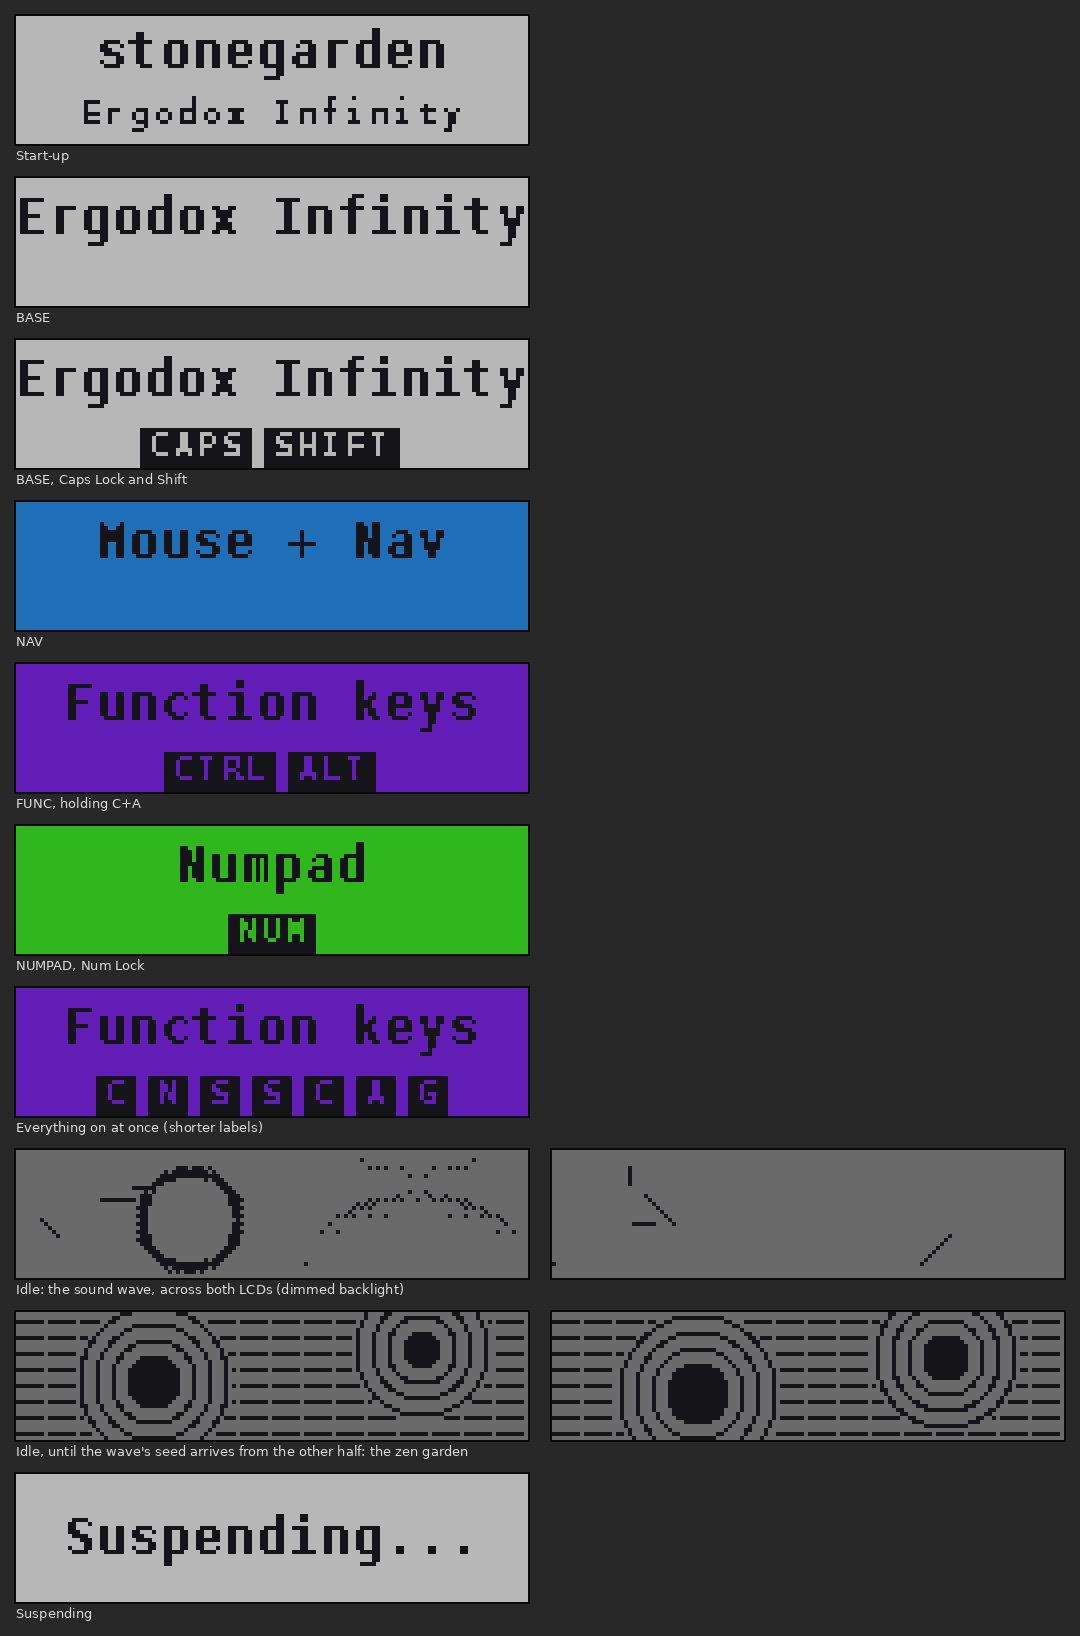
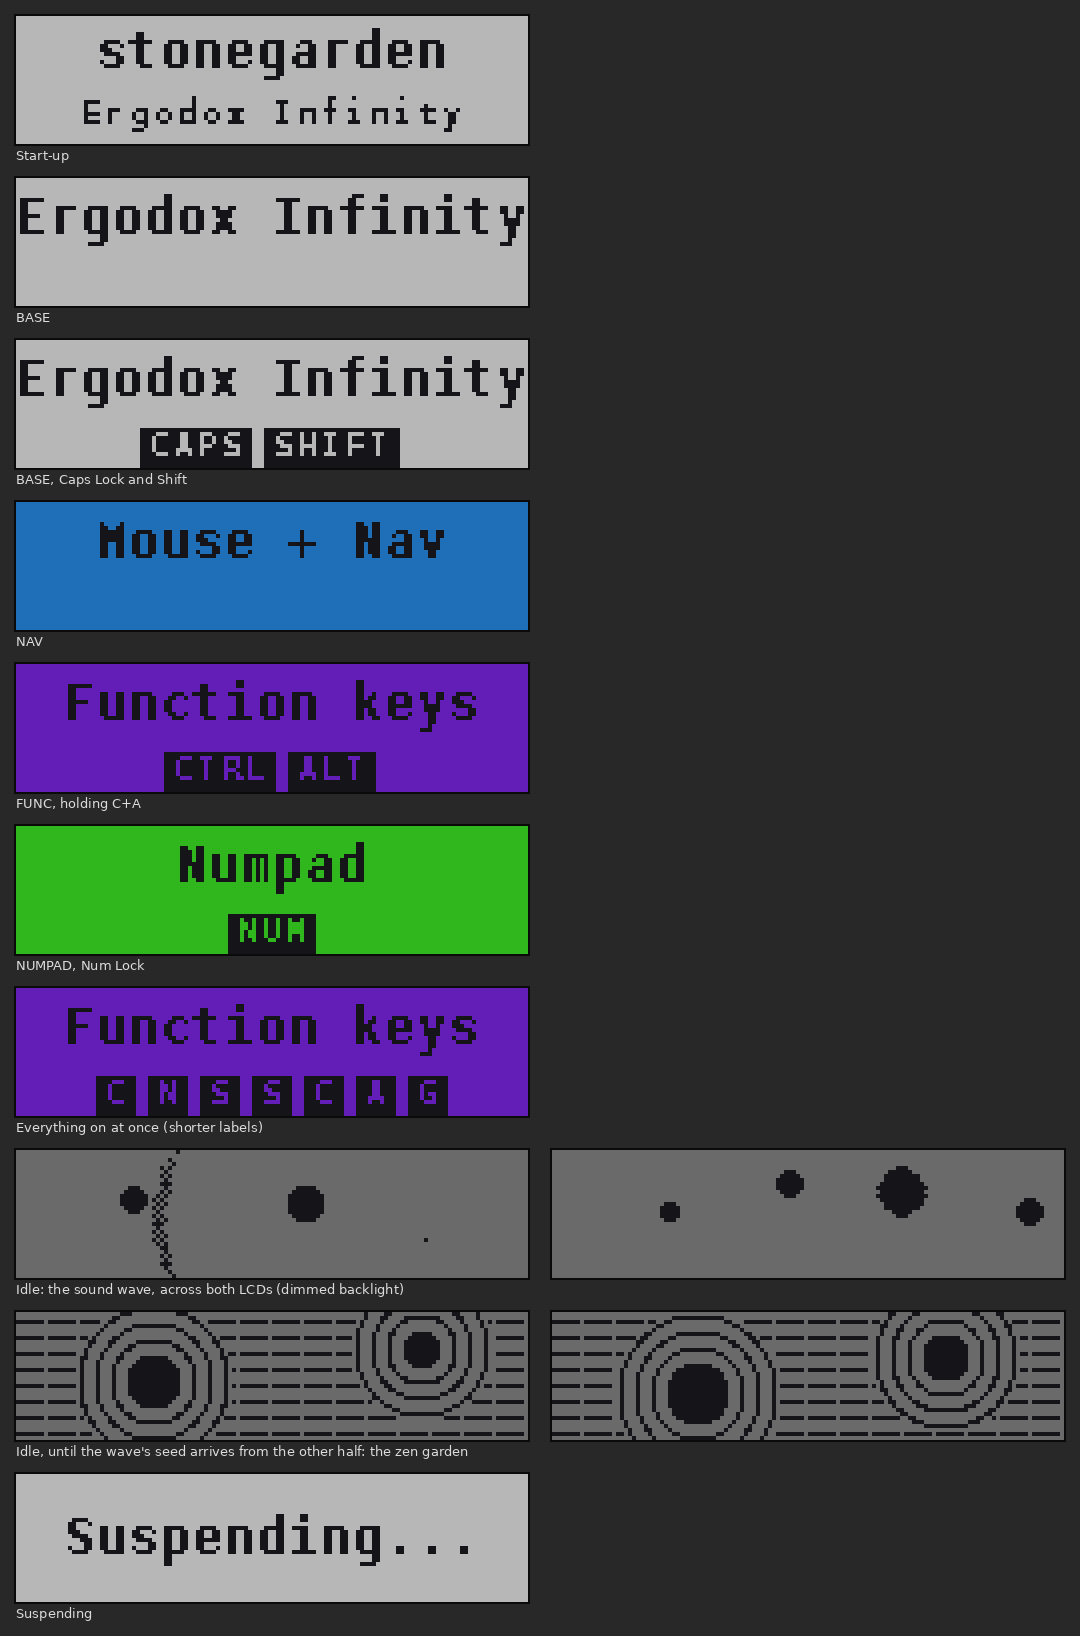
ErgoDox Infinity wave: absorbing edges and rigid disks
Replace the reflecting screen edges with Mur's first-order absorbing
boundary condition, u_next(edge) = u(inner) - (u_next(inner) - u(edge))/3
at Courant number 1/2. Measured on this grid with the same integer
scheme, a central pulse keeps 57% of its energy with reflecting edges,
8% after 8 seconds and 0.5% after 20 with Mur, and a 6-cell graded
damping layer in front of Mur (a cheap PML) did worse than Mur alone.
The global damping drops to a trace (1/1024 per step) for integer
rounding.

The reflectors are now 1 to 5 disks of radius 2 to 4 at random places,
apart from each other and the edges, and rigid (Neumann: a disk cell
counts as the neighbour's own height), so they reflect without the
sign flip of the old zero-held walls. The previews use a seed with
five disks.

diff --git a/keyboards/ergodox/lcd_wave.c b/keyboards/ergodox/lcd_wave.c
@@ -8,9 +8,17 @@
  *
  *     u_next = u + (u_north + u_south + u_east + u_west) / 4 - u_prev
  *
- * in 16-bit integers, with a little damping each step so the energy stays bounded. The wave is
- * held at zero on a few random short walls and at the screen edges, so it reflects off them.
- * Random drops start new waves now and then.
+ * in 16-bit integers. Up to five small disks at random places are rigid obstacles (a Neumann
+ * boundary: no flow into them), so the wave reflects off them as off a solid object. The screen
+ * edges absorb instead, with Mur's first-order absorbing boundary condition (ABC):
+ *
+ *     u_next(edge) = u(inner) + (c dt - dx) / (c dt + dx) * (u_next(inner) - u(edge)),  factor -1/3
+ *
+ * which lets a wave leave as if the field went on. It's exact head-on and less so at grazing angles,
+ * but measured on this grid it lets out all but 1% of a pulse's energy within 15 seconds (reflecting
+ * edges kept 57%; a few cells of graded damping in front of the edges, a cheap PML, did worse than
+ * Mur alone). A trace of damping clears the integer rounding that's left. Random drops start new
+ * waves now and then.
  *
  * Each half simulates the whole field, so they need no data from each other while it runs: the
  * integer maths is exact and the same on both, so they only have to start from the same random
@@ -27,11 +35,11 @@
 
 static int16_t  wave_a[WAVE_H][WAVE_W], wave_b[WAVE_H][WAVE_W];
 static int16_t (*u)[WAVE_W] = wave_a, (*u_prev)[WAVE_W] = wave_b;
-static uint8_t  walls[WAVE_H][WAVE_W / 8]; // one bit per cell
+static uint8_t  walls[WAVE_H][WAVE_W / 8]; // one bit per cell, set inside the disks
 static uint32_t rng;
 static uint16_t step_count, next_drop;
 
-#define WALL_COUNT 7
+#define DISKS_MAX 5   // obstacles: 1 to 5 disks, radius 2 to 4
 #define WAVE_CALM 240 // heights below this aren't drawn, so small ripples don't speckle the screen
 #define DROP_AMPLITUDE 3200
 #define DROP_MIN_STEPS 45  // between drops: 1.5 to 4 seconds at 30 steps a second
@@ -85,33 +93,55 @@ void lcd_wave_start(uint32_t seed) {
     u = wave_a, u_prev = wave_b;
     step_count = 0;
 
-    // Short walls: horizontal, vertical or diagonal, 4 to 9 cells long.
-    static const int8_t directions[4][2] = {{1, 0}, {0, 1}, {1, 1}, {1, -1}};
-    for (int i = 0; i < WALL_COUNT; i++) {
-        int x = 6 + random_below(WAVE_W - 12), y = 3 + random_below(WAVE_H - 6);
-        int d = random_below(4), len = 4 + random_below(6);
-        for (int j = 0; j < len; j++) {
-            set_wall(x + j * directions[d][0], y + j * directions[d][1]);
+    // 1 to DISKS_MAX disks of radius 2 to 4, away from the edges and from each other.
+    int16_t placed[DISKS_MAX][3];
+    int     count = 1 + random_below(DISKS_MAX), n = 0;
+    for (int tries = 0; n < count && tries < 50; tries++) {
+        int r = 2 + random_below(3), cx = 8 + random_below(WAVE_W - 16), cy = 5 + random_below(WAVE_H - 10);
+        bool clear = true;
+        for (int i = 0; i < n; i++) {
+            int dx = cx - placed[i][0], dy = cy - placed[i][1], gap = r + placed[i][2] + 6;
+            if (dx * dx + dy * dy < gap * gap) clear = false;
+        }
+        if (!clear) continue;
+        placed[n][0] = cx, placed[n][1] = cy, placed[n][2] = r, n++;
+        for (int dy = -r; dy <= r; dy++) {
+            for (int dx = -r; dx <= r; dx++) {
+                if (dx * dx + dy * dy <= r * r + r) set_wall(cx + dx, cy + dy); // + r rounds the edge out
+            }
         }
     }
     random_drop();
 }
 
+static int16_t clamp16(int32_t v) {
+    return v > INT16_MAX ? INT16_MAX : v < INT16_MIN ? INT16_MIN : (int16_t)v;
+}
+
 void lcd_wave_step(void) {
-    for (int y = 0; y < WAVE_H; y++) {
-        for (int x = 0; x < WAVE_W; x++) {
+    // The inside of the grid. A disk's cells count as the cell's own height (no flow into the disk);
+    // the disks keep away from the edges, so the edge cells needn't be checked.
+    for (int y = 1; y < WAVE_H - 1; y++) {
+        for (int x = 1; x < WAVE_W - 1; x++) {
             if (is_wall(x, y)) {
                 u_prev[y][x] = 0;
                 continue;
             }
-            // Outside the screen counts as zero: the edges reflect like the walls.
-            int32_t sum = (y > 0 ? u[y - 1][x] : 0) + (y < WAVE_H - 1 ? u[y + 1][x] : 0) + (x > 0 ? u[y][x - 1] : 0) + (x < WAVE_W - 1 ? u[y][x + 1] : 0);
-            int32_t next = sum / 4 + u[y][x] - u_prev[y][x];
-            next -= next / 128; // damping: about 21% a second
-            if (next > INT16_MAX) next = INT16_MAX;
-            if (next < INT16_MIN) next = INT16_MIN;
-            u_prev[y][x] = (int16_t)next; // u_prev isn't needed any more, so it takes the new step
+            int32_t here = u[y][x];
+            int32_t sum  = (is_wall(x, y - 1) ? here : u[y - 1][x]) + (is_wall(x, y + 1) ? here : u[y + 1][x]) + (is_wall(x - 1, y) ? here : u[y][x - 1]) + (is_wall(x + 1, y) ? here : u[y][x + 1]);
+            int32_t next = sum / 4 + here - u_prev[y][x];
+            next -= next / 1024; // a trace of damping, for what integer rounding leaves behind
+            u_prev[y][x] = clamp16(next); // u_prev isn't needed any more, so it takes the new step
         }
+    }
+    // The edges: Mur's absorbing boundary, from the new values just inside them.
+    for (int y = 1; y < WAVE_H - 1; y++) {
+        u_prev[y][0]          = clamp16(u[y][1] - (u_prev[y][1] - u[y][0]) / 3);
+        u_prev[y][WAVE_W - 1] = clamp16(u[y][WAVE_W - 2] - (u_prev[y][WAVE_W - 2] - u[y][WAVE_W - 1]) / 3);
+    }
+    for (int x = 0; x < WAVE_W; x++) {
+        u_prev[0][x]          = clamp16(u[1][x] - (u_prev[1][x] - u[0][x]) / 3);
+        u_prev[WAVE_H - 1][x] = clamp16(u[WAVE_H - 2][x] - (u_prev[WAVE_H - 2][x] - u[WAVE_H - 1][x]) / 3);
     }
     int16_t (*t)[WAVE_W] = u;
     u = u_prev, u_prev = t;

diff --git a/scripts/lcd_preview/preview.c b/scripts/lcd_preview/preview.c
@@ -51,7 +51,7 @@ int main(int argc, char **argv) {
     if (argc > 1 && strcmp(argv[1], "wave") == 0) {
         // Both LCDs side by side, every other step for 8 seconds at 30 steps a second.
         static unsigned char both[LCD_HEIGHT][2 * LCD_WIDTH];
-        lcd_wave_start(12345);
+        lcd_wave_start(1); // a seed that places five disks
         for (int frame = 0; frame < 120; frame++) {
             for (int half = 0; half < 2; half++) {
                 lcd_draw_wave(half);
@@ -96,7 +96,7 @@ int main(int argc, char **argv) {
     // The wave a couple of seconds in, across both LCDs.
     {
         static unsigned char both[LCD_HEIGHT][2 * LCD_WIDTH];
-        lcd_wave_start(12345);
+        lcd_wave_start(1); // a seed that places five disks
         for (int i = 0; i < 70; i++) lcd_wave_step();
         for (int half = 0; half < 2; half++) {
             lcd_draw_wave(half);

diff --git a/keyboards/ergodox/lcd.h b/keyboards/ergodox/lcd.h
@@ -30,8 +30,9 @@ void lcd_draw_layer_screen(const char *name, uint8_t indicators);
 // LCD, 1 for the right. Each frame moves the ripples one pixel outward.
 void lcd_draw_idle(uint8_t half, uint16_t frame);
 
-// The other idle animation (lcd_wave.c): a simulated sound wave across both LCDs, reflecting off a
-// few random walls. Start it with the same seed on both halves, step it, then draw a half.
+// The other idle animation (lcd_wave.c): a simulated sound wave across both LCDs, reflecting off up
+// to five small disks and absorbed at the edges. Start it with the same seed on both halves, step
+// it, then draw a half.
 void     lcd_wave_start(uint32_t seed);
 void     lcd_wave_step(void);
 uint16_t lcd_wave_steps(void);

diff --git a/keyboards/ergodox/README.md b/keyboards/ergodox/README.md
@@ -171,20 +171,28 @@ Then connect the halves and plug the left half into the computer. If you'd rathe
 * **The backlight** takes the layer's colour: white for BASE, blue for NAV, purple for FUNC, green for NUMPAD. It fades
   between colours, fades in behind the *stonegarden* start-up screen, and fades out on *Suspending...*.
 * **When idle** (30 seconds without a key press on either half), both LCDs together show a simulated sound wave: drops
-  fall at random, and their waves spread, reflect off a few random short walls and the edges, and interfere. The
+  fall at random, and their waves spread, scatter off up to five small disks and leave through the edges. The
   backlight dims to a quarter, and the next key press brings everything back. After 5 minutes without key presses the
   LCDs turn off.
 
 ![The sound wave across both LCDs](lcd_wave.gif)
 
 The wave really is simulated: `lcd_wave.c` solves the 2D wave equation with the usual explicit finite-difference scheme,
-in integers, 30 steps a second on a 256 x 32 grid (one cell per pixel, both LCDs). The walls hold the wave at zero, so
-it reflects off them. Each half simulates the whole grid; the half on USB picks the random seed (walls and drops) and
-sends it to the other over the cable, and the integer maths gives both exactly the same wave. If the seed doesn't
-arrive, that half shows a zen stone garden instead.
+in integers, 30 steps a second on a 256 x 32 grid (one cell per pixel, both LCDs).
+
+* **The disks** (1 to 5, radius 2 to 4 pixels, at random places) are rigid: no flow into them (a Neumann boundary), so
+  waves reflect off them as off a solid object.
+* **The edges absorb**, with Mur's first-order absorbing boundary condition: each edge cell is set as if the wave
+  carried on past it. Measured on this grid, it lets out all but 1% of a pulse's energy within 15 seconds; reflecting
+  edges kept 57%, and a few cells of graded damping in front of the edges (a cheap stand-in for a perfectly matched
+  layer) did worse than Mur alone. A trace of damping clears what integer rounding leaves.
+
+Each half simulates the whole grid; the half on USB picks the random seed (disks and drops) and sends it to the other
+over the cable, and the integer maths gives both exactly the same wave. If the seed doesn't arrive, that half shows a
+zen stone garden instead.
 
 The timings are at the top of the LCD code in `keymap.c` (`LCD_IDLE_MS`, `LCD_WAVE_STEP_MS` and the fades) and in
-`config.h` (`ST7565_TIMEOUT`, when the LCDs turn off); the wave's walls, drops and damping are at the top of
+`config.h` (`ST7565_TIMEOUT`, when the LCDs turn off); the wave's disks, drops and calm threshold are at the top of
 `lcd_wave.c`.
 
 The text is DejaVu Sans Mono, monospaced, rendered without anti-aliasing: bold at 12 px for the big line and 8 px for
